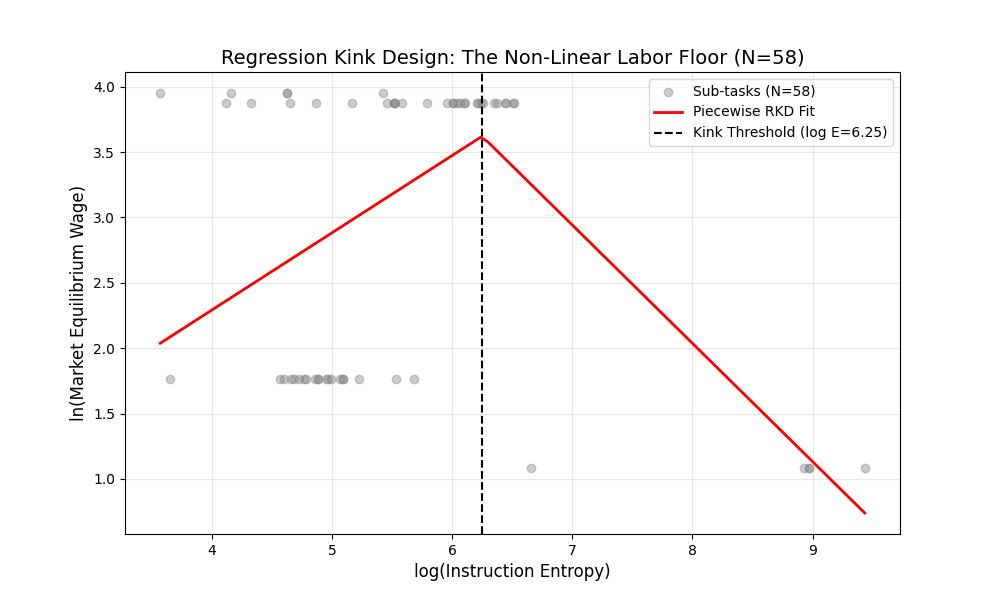
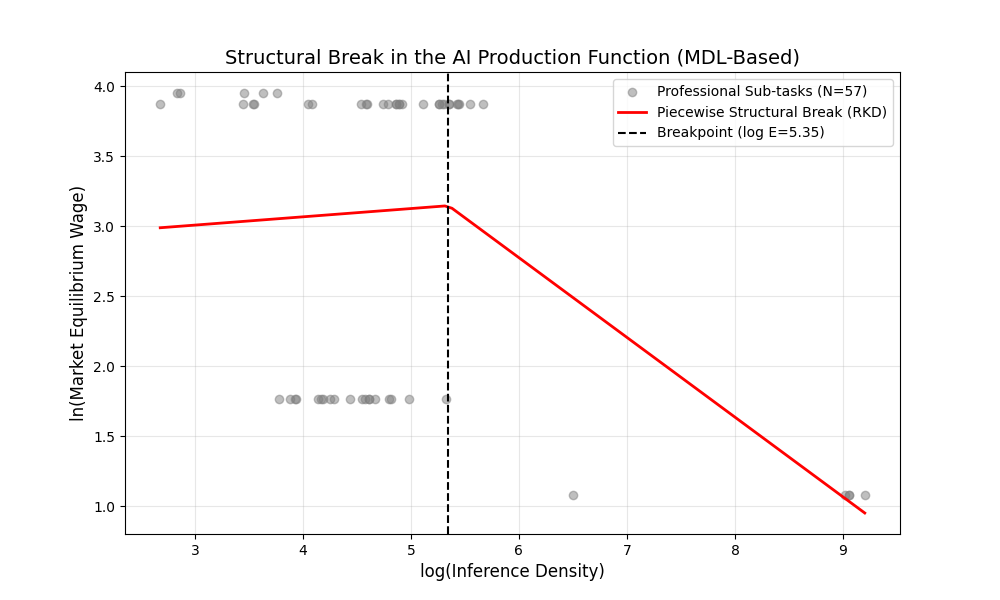
Research: Regenerate visuals using Hardened v3 (MDL-based) metrics and sync with paper folder.

diff --git a/src/generate_hardened_visuals.py b/src/generate_hardened_visuals.py
@@ -1,0 +1,84 @@
+import pandas as pd
+import numpy as np
+import matplotlib.pyplot as plt
+import seaborn as sns
+import os
+import statsmodels.formula.api as smf
+
+def find_optimal_kink(df, target='ln_wage_eq'):
+    best_r2 = -1
+    best_kink = 0
+    # Use log_e from the hardened metrics
+    thresholds = np.percentile(df['log_e'], np.arange(20, 81, 5))
+    for kink in thresholds:
+        temp_df = df.copy()
+        temp_df['log_e_high'] = np.maximum(0, temp_df['log_e'] - kink)
+        try:
+            model = smf.ols(f'{target} ~ log_e + log_e_high', data=temp_df).fit()
+            if model.rsquared > best_r2:
+                best_r2 = model.rsquared
+                best_kink = kink
+        except: continue
+    return best_kink
+
+def generate_hardened_visuals():
+    if not os.path.exists('data/subtask_dataset_v2.csv'):
+        print("Hardened dataset missing.")
+        return
+
+    df = pd.read_csv('data/subtask_dataset_v2.csv')
+    # Use the same filtering as the model
+    df = df[(df['e_hardened'] > 0) & (df['k_hardened'] > 0) & (df['ln_wage_eq'] > 0)].copy()
+    
+    # Information Theory logs
+    df['log_e'] = np.log(df['e_hardened'])
+    df['log_k'] = np.log(df['k_hardened'])
+    
+    # 1. THE TECHNOLOGICAL FRONTIER (Heatmap)
+    plt.figure(figsize=(12, 8))
+    sns.kdeplot(
+        data=df, x="log_e", y="log_k", 
+        fill=True, thresh=0, levels=100, cmap="magma",
+        cbar=True, cbar_kws={'label': 'Labor Concentration Density'}
+    )
+    plt.scatter(df['log_e'], df['log_k'], color='white', s=10, alpha=0.5)
+    
+    plt.title('The Technological Frontier: Mapping the High-Entropy Regime (N=57)', fontsize=16)
+    plt.xlabel('Inference Density (MDL Ratio: log E)', fontsize=12)
+    plt.ylabel('Coordination Complexity (Reference Density: log κ)', fontsize=12)
+    
+    plt.axvline(df['log_e'].mean(), color='cyan', linestyle='--', alpha=0.5, label='Sample Mean E')
+    plt.axhline(df['log_k'].mean(), color='cyan', linestyle='--', alpha=0.5, label='Sample Mean κ')
+    
+    os.makedirs('output/v2', exist_ok=True)
+    plt.savefig('output/v2/subtask_complexity_heatmap.png')
+    plt.savefig('paper/subtask_complexity_heatmap.png')
+    print("Hardened Frontier Map generated.")
+
+    # 2. THE STRUCTURAL BREAK (RKD Plot)
+    kink_threshold = find_optimal_kink(df)
+    df['log_e_high'] = np.maximum(0, df['log_e'] - kink_threshold)
+    
+    model = smf.ols('ln_wage_eq ~ log_e + log_e_high', data=df).fit()
+    
+    plt.figure(figsize=(10, 6))
+    plt.scatter(df['log_e'], df['ln_wage_eq'], alpha=0.5, color='gray', label=f'Professional Sub-tasks (N={len(df)})')
+    
+    log_e_axis = np.linspace(df['log_e'].min(), df['log_e'].max(), 100)
+    log_e_high = np.maximum(0, log_e_axis - kink_threshold)
+    pred_df = pd.DataFrame({'log_e': log_e_axis, 'log_e_high': log_e_high})
+    plt.plot(log_e_axis, model.predict(pred_df), color='red', linewidth=2, label='Piecewise Structural Break (RKD)')
+    
+    plt.axvline(kink_threshold, color='black', linestyle='--', label=f'Breakpoint (log E={kink_threshold:.2f})')
+    plt.title('Structural Break in the AI Production Function (MDL-Based)', fontsize=14)
+    plt.xlabel('log(Inference Density)', fontsize=12)
+    plt.ylabel('ln(Market Equilibrium Wage)', fontsize=12)
+    plt.legend()
+    plt.grid(alpha=0.3)
+    
+    plt.savefig('output/v2/complexity_kink_expanded.png')
+    plt.savefig('paper/complexity_kink_expanded.png')
+    print("Hardened Structural Break Plot generated.")
+
+if __name__ == "__main__":
+    generate_hardened_visuals()
